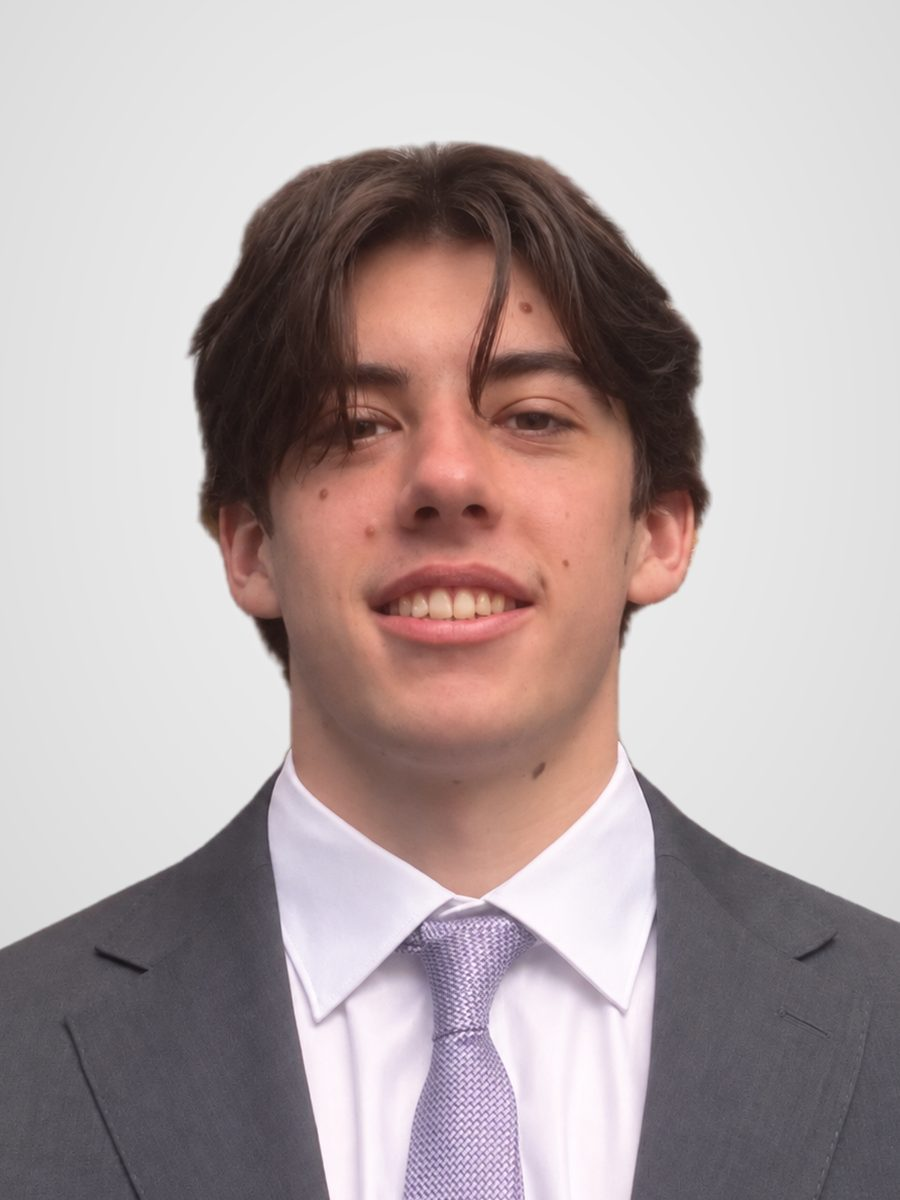
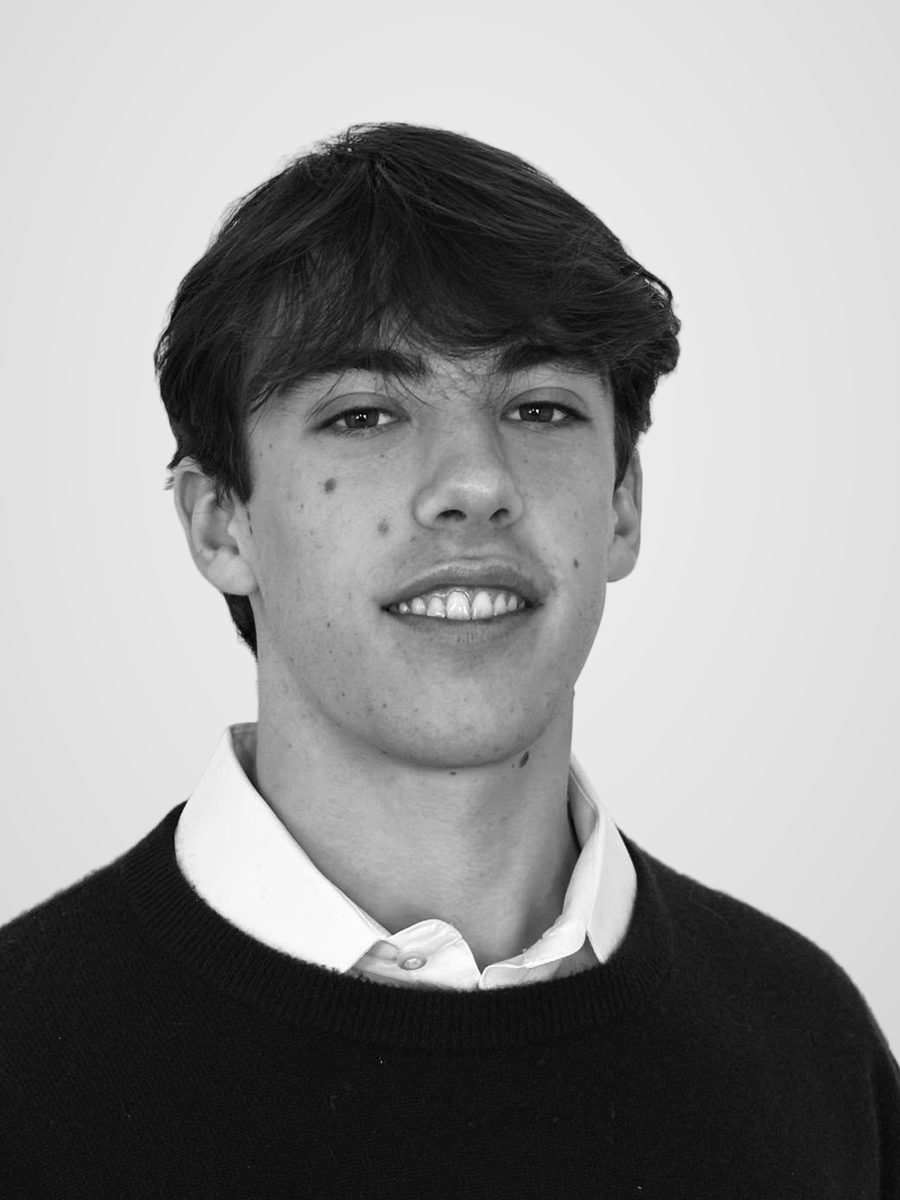
New headshot for Kaspar Benedikt (#36)
Claude-Session: https://claude.ai/code/session_016rtwW6F4ZxnBTU6Y9U1igo

diff --git a/src/components/about/TeamMemberCard.jsx b/src/components/about/TeamMemberCard.jsx
@@ -4,7 +4,7 @@ import { FaLinkedin } from "react-icons/fa";
 
 // Appended to photo URLs so browsers fetch replaced headshots instead of a cached copy.
 // Photos are also served with a 5 minute cache (vercel.json), so this rarely needs a bump.
-const PHOTO_VERSION = "2026-11-02";
+const PHOTO_VERSION = "2026-11-02b";
 
 function ExpandIcon({ expanded }) {
   return (
